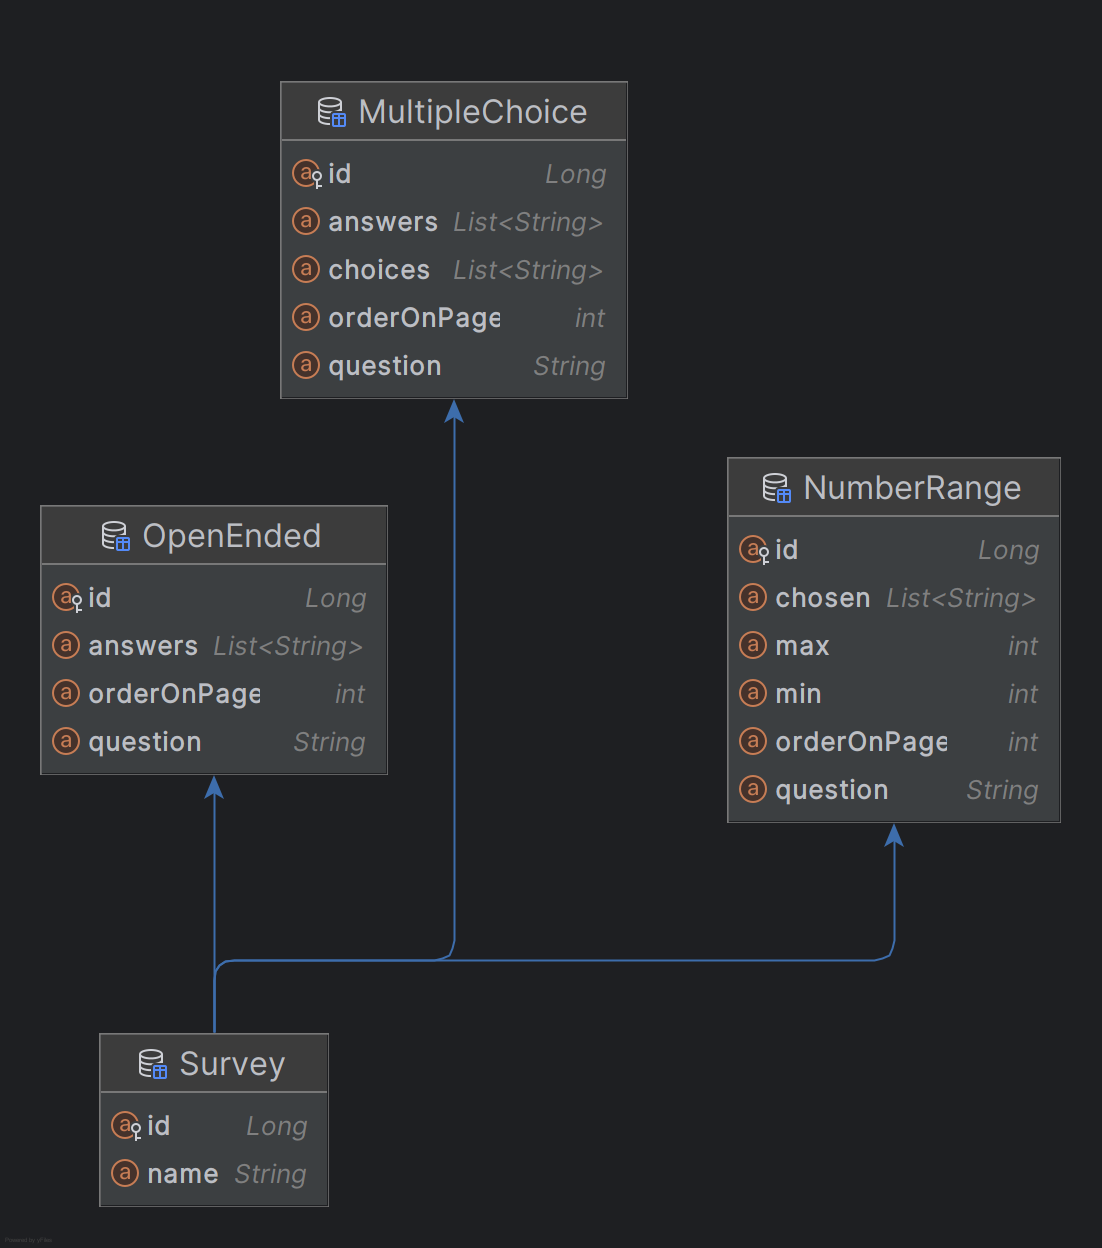
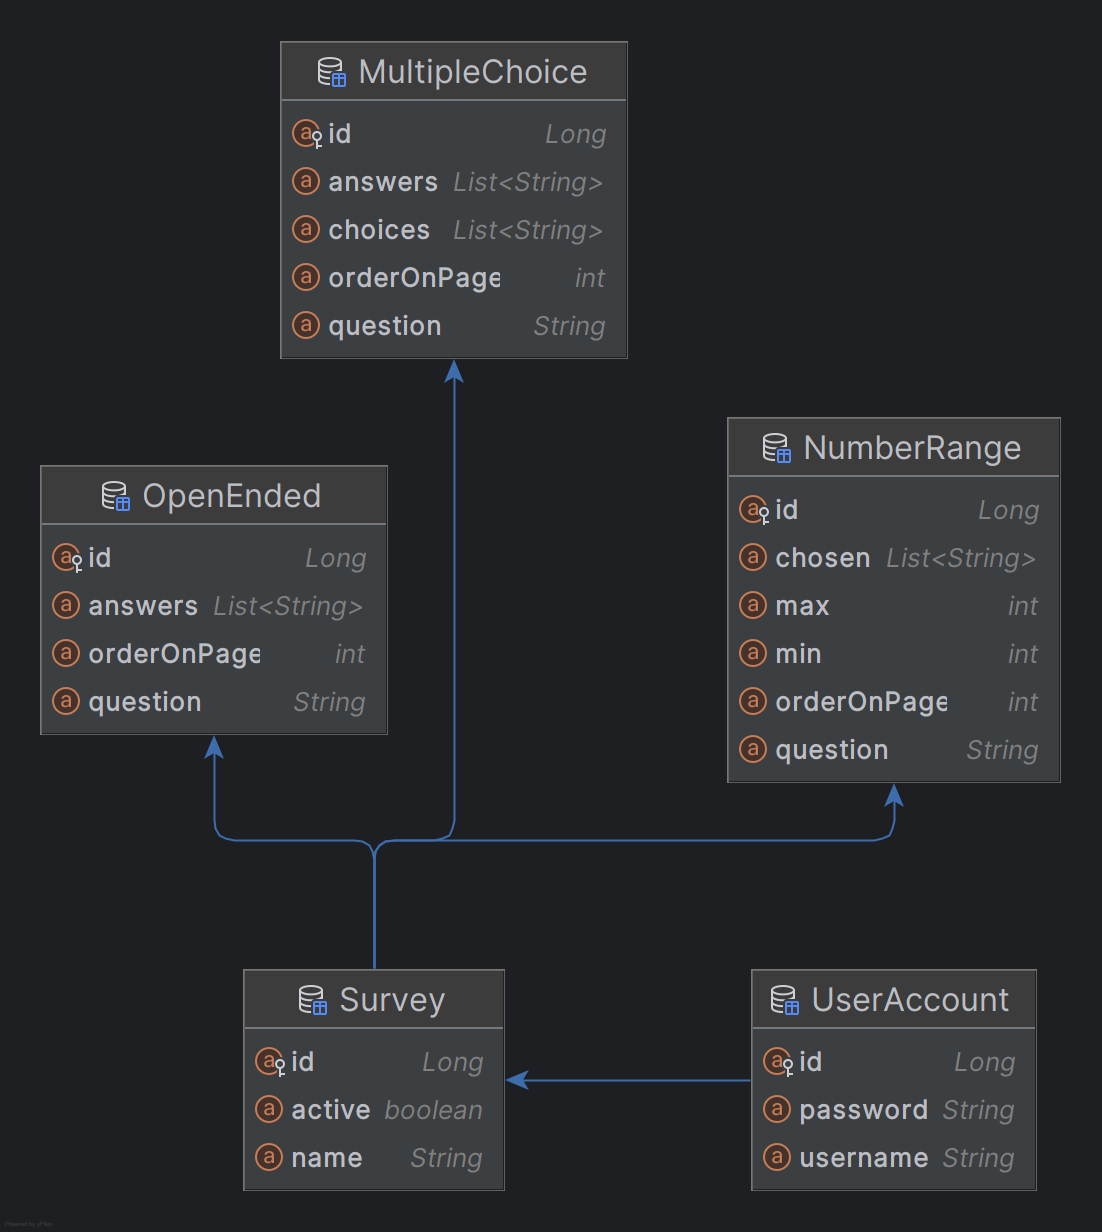
Updating README and clean-up Updating README contents, and removing an unused java file.

diff --git a/README.md b/README.md
@@ -2,11 +2,15 @@
 
 ## Status of Project
 Currently, the web application pulls stored surveys from the backend database and then displays a list of them in
-the homepage. A user can click on one of the surveys and then display the survey. Survey answer submission and 
-survey creation currently does not work.
+the homepage. A user can click on one of the surveys and then display the survey. A user can create an account, and log 
+in to the created account. A registered user gets access to a dashboard which lists their created surveys, and the
+current results of the survey (at the time of opening the page). A registered user can create a survey, which adds it to
+the survey list and the dashboard list. Some websocket-based features were added, primarily the automatic closure of open
+survey sessions if the creator of a survey closes the survey from their dashboard. The home page also updates its survey
+list if a survey's status updates.
 
-For the next sprint (Nov 11 - Nov 25) survey creation and answer submission should be fixed, and th issues assigned 
-to Milestone 2 (#8, #9, #10, #11) will be implemented
+For the next sprint (Nov 25 - December 6) survey submission will be finalized, and more websocket-based features will be
+added (#9). Styling of pages will also be finished.
 
 ## Build and Deploy Statuses
 [![Build Status (Java CI With Maven)](https://github.com/douglytle/group31-minisurveymonkey/actions/workflows/maven.yml/badge.svg)](https://github.com/douglytle/group31-minisurveymonkey/actions/workflows/maven.yml)
